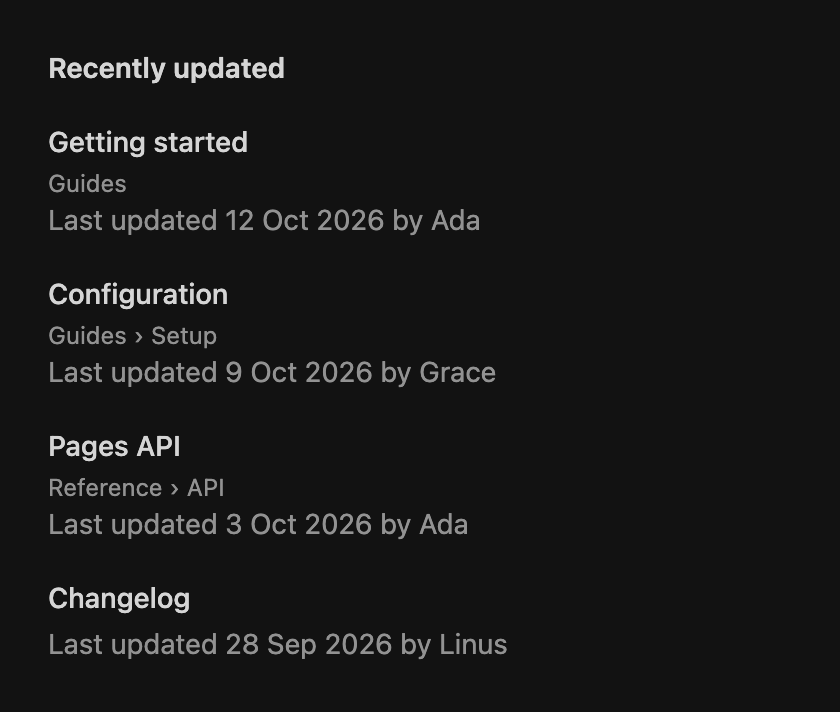
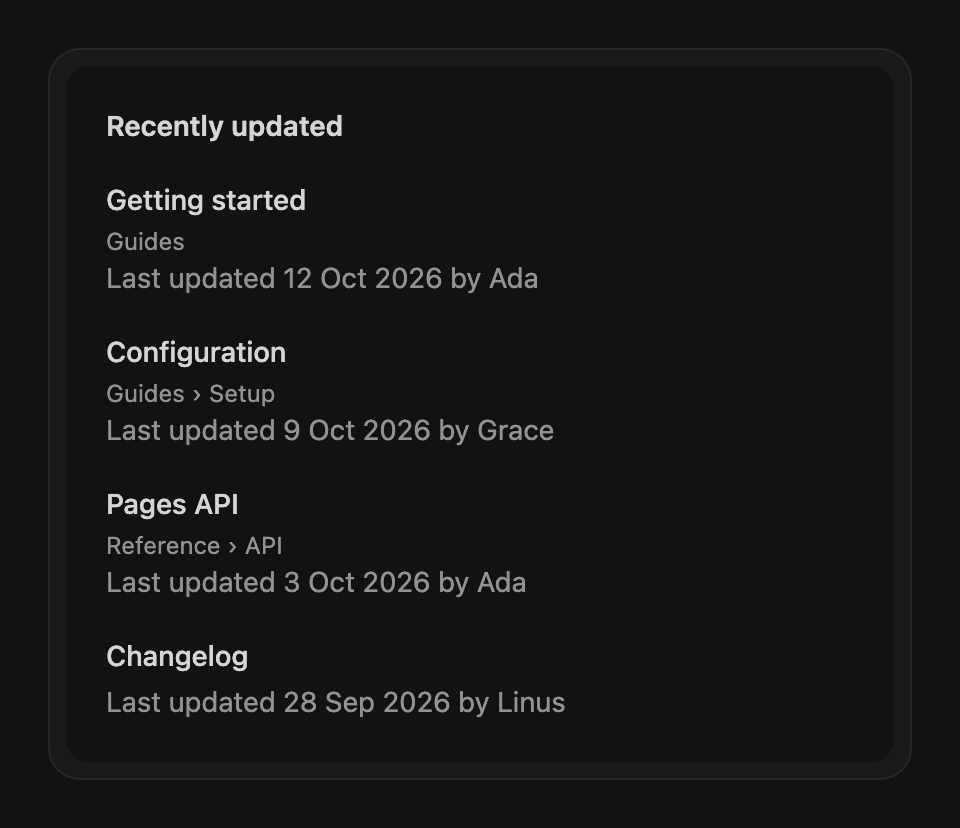
Wrap RecentlyUpdatedList preview in a Frame
Claude-Session: https://claude.ai/code/session_0121kxNFBZadoimDmhJeGX2b

Changed region(s): [[0.0619, 0.5871, 0.619, 0.927], [0.0619, 0.0618, 0.5881, 0.3708], [0.0619, 0.4017, 0.5881, 0.5562]]

diff --git a/README.md b/README.md
@@ -216,7 +216,7 @@ Works in server and client components. It renders nothing when `items` is empty.
 
 <picture>
   <source media="(prefers-color-scheme: dark)" srcset="docs/previews/recently-updated-list-dark.png">
-  <img alt="RecentlyUpdatedList with four pages" src="docs/previews/recently-updated-list-light.png" width="320">
+  <img alt="RecentlyUpdatedList with four pages" src="docs/previews/recently-updated-list-light.png" width="360">
 </picture>
 
 **Dependencies:** none beyond `next/link` and Tailwind with the Fumadocs tokens.
